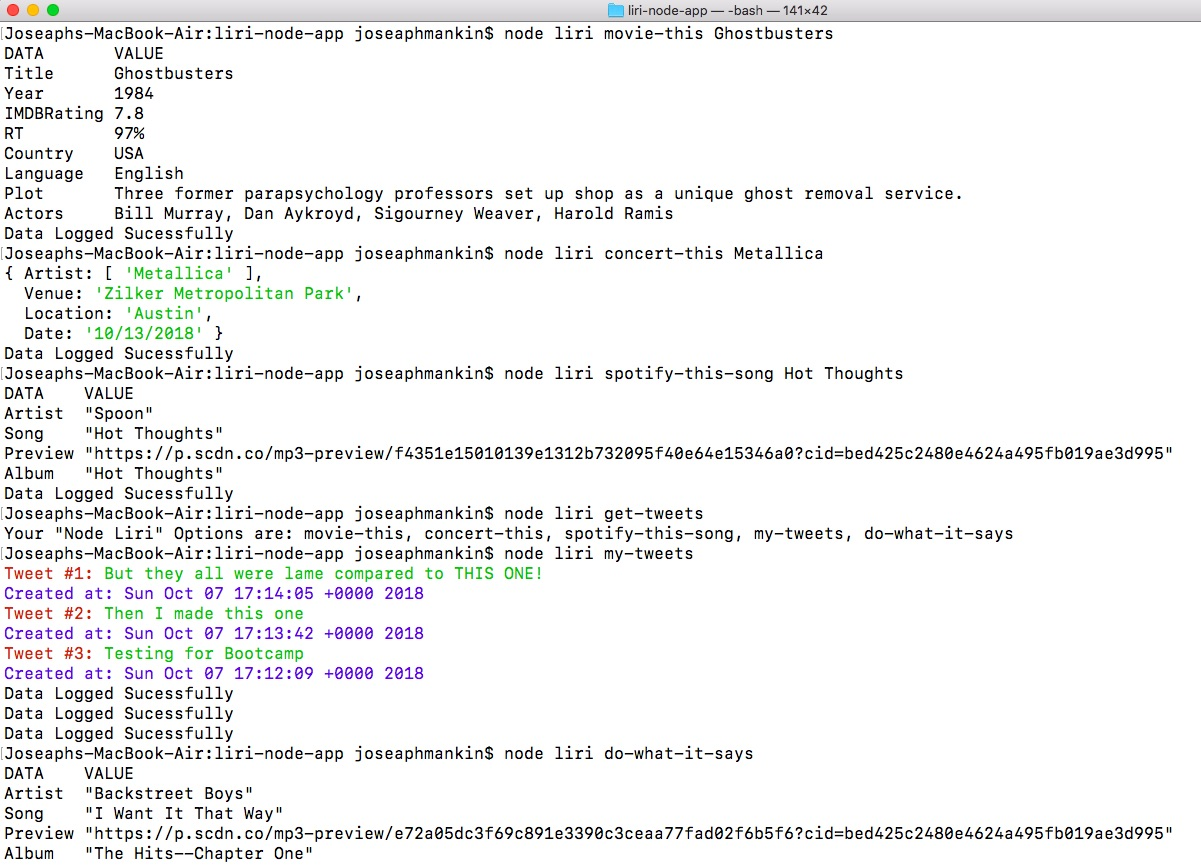
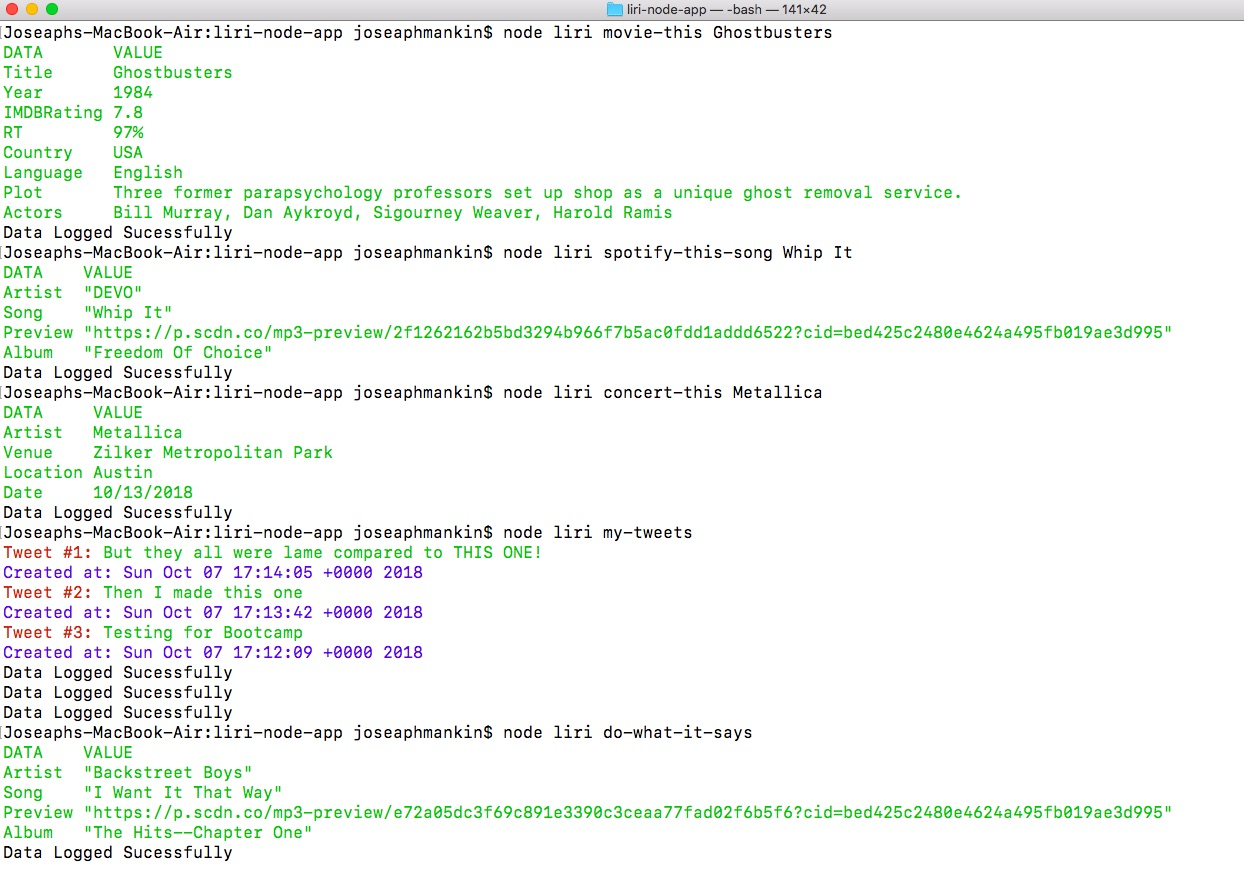
Chalk tweeks and readme tinker

Changed region(s): [[0.0, 0.0, 0.9858, 0.9965]]

diff --git a/liri.js b/liri.js
@@ -77,7 +77,7 @@ function movieIt() {
 
             //... so it's easier to just send one thing to the console.log and the logIt function
 
-            console.log(columnify(movieObj, { columns: ['DATA', 'VALUE'] }))
+            console.log(chalk.green(columnify(movieObj, { columns: ['DATA', 'VALUE'] })));
 
             // console.log(movieObj);
             logIt("Movie Search: " + JSON.stringify(movieObj));
@@ -113,7 +113,7 @@ function concertIt() {
             }
 
             //... so it's easier to just send one thing to the console.log and the logIt function
-            console.log(concertObj);
+            console.log(chalk.green(columnify(concertObj, { columns: ['DATA', 'VALUE'] })));
             logIt("Concert Search: " + JSON.stringify(concertObj));
 
             // console.log("Venue Name: " + data[0].venue.name);
@@ -145,7 +145,7 @@ function spotifyIt() {
                 Album: JSON.stringify(theSign.album.name),
             }
 
-            console.log(columnify(theSignObj, { columns: ['DATA', 'VALUE'] }))
+            console.log(chalk.green(columnify(theSignObj, { columns: ['DATA', 'VALUE'] })));
             logIt("Spotify Search: " + JSON.stringify(theSignObj));
 
             // console.log("Artist: " + JSON.stringify(theSign.album.artists[0].name));
@@ -171,7 +171,7 @@ function spotifyIt() {
                 Album: JSON.stringify(song.album.name),
             }
 
-            console.log(columnify(songObj, { columns: ['DATA', 'VALUE'] }))
+            console.log(chalk.green(columnify(songObj, { columns: ['DATA', 'VALUE'] })));
             logIt("Spotify Search: " + JSON.stringify(songObj));
 
             // console.log("Artist: " + JSON.stringify(song.album.artists[0].name));
